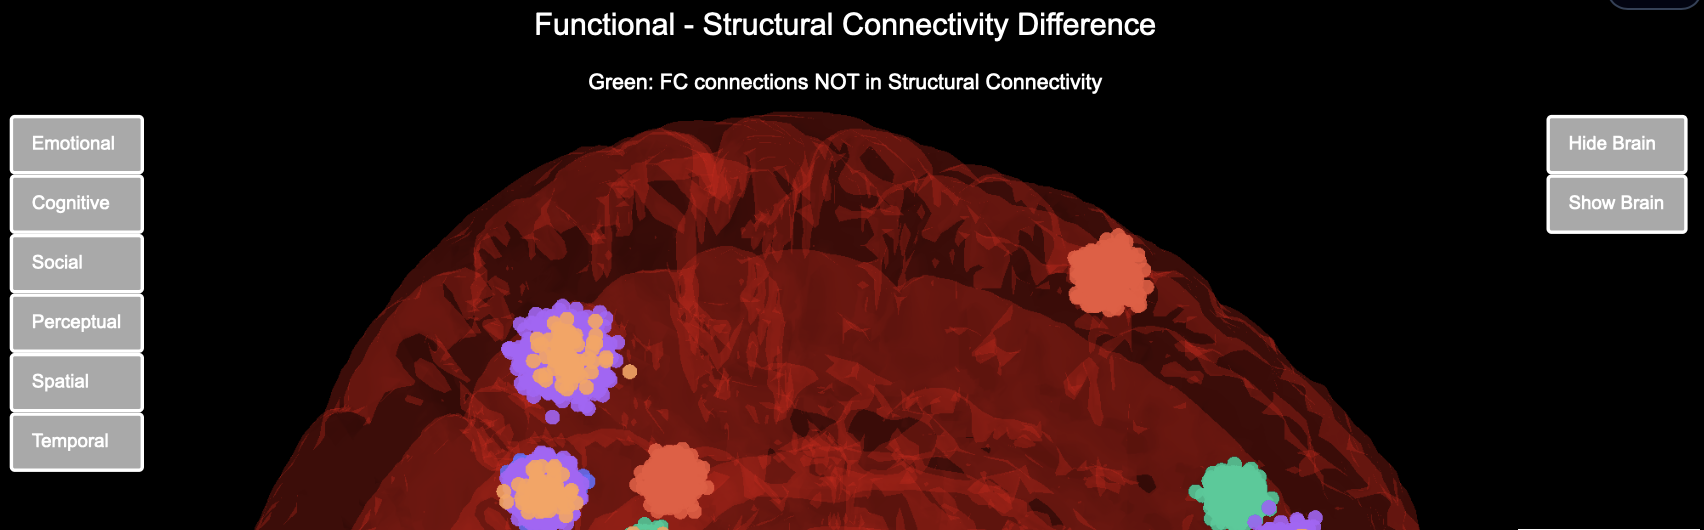
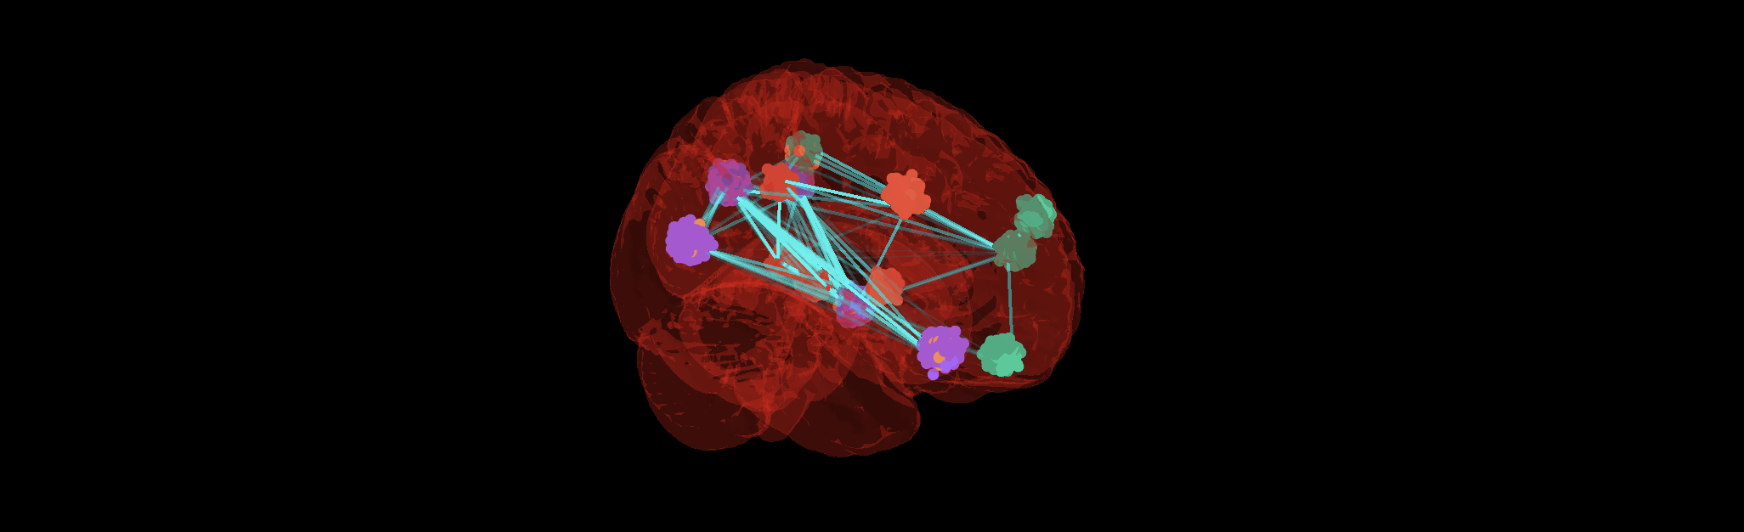
deploy

diff --git a/index.html b/index.html
@@ -23,7 +23,7 @@
   </div>
 
     <div class="header-photo">
-      <img src="photo_cv.png" alt="Valentina Pucci">
+      <img src="img/photo_cv.png" alt="Valentina Pucci">
     </div>
   </header>
 
@@ -55,15 +55,15 @@
 
     <div class="project-card" onclick="openModal('p5')">
       <img src="img/ada.png" class="card-img">
-      <h3>MERLOT: Online Content & Network Analysis</h3>
-      <p class="meta">Data Science · Network Analysis · NLP</p>
-      <p>Large-scale analysis of online content and relationships using real-world datasets.</p>
+      <h3>Mapping the Collective Reddit Brain - Data Story about the Reddit Network dataset</h3>
+      <p class="meta">Data Science · Network Analysis · Data Analysis</p>
+      <p>Treating Reddit as a nervous system to uncover brain-like structure in millions of online interactions.</p>
     </div>
 
     <div class="project-card" onclick="openModal('p3')">
-      <img src="img/lsbi.png" class="card-img">
+      <img src="img/lsbi2.png" class="card-img">
       <h3>Soft Implantable Electrodes</h3>
-      <p class="meta">Bioelectronics · Electrochemistry</p>
+      <p class="meta">Bioelectronics · Electrochemistry · Data Analysis</p>
       <p>Characterization of kirigami-based electrodes for long-term neural interfaces.</p>
     </div>
 
@@ -72,13 +72,6 @@
       <h3>fMRI Task Prediction</h3>
       <p class="meta">Deep Learning · RNN · Neuroimaging</p>
       <p>Predicting task timecourses from brain activity using recurrent neural networks.</p>
-    </div>
-
-    <div class="project-card" onclick="openModal('p4')">
-      <img src="img/chd.jpg" class="card-img">
-      <h3>CHD Risk Prediction</h3>
-      <p class="meta">Machine Learning · Healthcare</p>
-      <p>Logistic regression model for early prediction of coronary heart disease risk.</p>
     </div>
 
   </section>
@@ -91,6 +84,8 @@
       <span class="close" onclick="closeModal('p1')">&times;</span>
   
       <h2>Hybrid Computational Models of Spinal Cord Stimulation</h2>
+
+      <img src="img/TNE.png" class="modal-img">
   
       <p><strong>Technologies:</strong> MATLAB, Python, COMSOL Multiphysics, NEURON</p>
   
@@ -112,7 +107,7 @@
       </ul>
   
       <p>
-        <a href="#">Code</a> · <a href="#">Report</a>
+        Code (Confidential) · <a href="docs/report_TNE.pdf" target="_blank">Report</a>
       </p>
     </div>
   </div>
@@ -122,6 +117,8 @@
       <span class="close" onclick="closeModal('p2')">&times;</span>
   
       <h2>Task Prediction Using fMRI Data</h2>
+
+      <img src="img/ML.png" class="modal-img">
   
       <p><strong>Technologies:</strong> Python, PyTorch, RNNs, CNNs</p>
   
@@ -137,7 +134,7 @@
       </ul>
   
       <p>
-        <a href="#">Code</a> · <a href="#">Report</a>
+        <a href="https://github.com/fedemengo/CS-433-ML4S" target="_blank">Code</a> · <a href="docs/ML2_report.pdf" target="_blank">Report</a>
       </p>
     </div>
   </div>
@@ -147,8 +144,10 @@
       <span class="close" onclick="closeModal('p3')">&times;</span>
   
       <h2>Kirigami-Based Soft Implantable Electrodes</h2>
+
+      <img src="img/lsbi.png" class="modal-img">
   
-      <p><strong>Technologies:</strong> Electrochemistry, Material Testing</p>
+      <p><strong>Technologies:</strong> Electrochemistry, Material Testing, Data Analysis</p>
   
       <p>
         Investigated the long-term stability of kirigami-inspired soft electrodes
@@ -162,7 +161,7 @@
       </ul>
   
       <p>
-        <a href="#">Details</a>
+        Report & Code (confidential)
       </p>
     </div>
   </div>
@@ -171,9 +170,9 @@
     <div class="modal-content">
       <span class="close" onclick="closeModal('p4')">&times;</span>
   
-      <h2>Coronary Heart Disease Risk Prediction</h2>
+      <h2>Machine Learning for Early Detection of Coronary Heart Disease Risk</h2>
   
-      <p><strong>Technologies:</strong> Python, Scikit-learn</p>
+      <p><strong>Technologies:</strong> Python </p>
   
       <p>
         Built and optimized a logistic regression model to predict coronary heart
@@ -187,7 +186,7 @@
       </ul>
   
       <p>
-        <a href="#">Code</a>
+        Code (confidential)
       </p>
     </div>
   </div>
@@ -195,32 +194,23 @@
   <div id="p5" class="modal">
     <div class="modal-content">
       <span class="close" onclick="closeModal('p5')">&times;</span>
+      <h2>Mapping the Collective Reddit Brain</h2>
+      <img src="img/ada_exp.png" class="modal-img">
   
-      <h2>MERLOT — Data Story on Online Content & Network Structure</h2>
-  
-      <p><strong>Technologies:</strong> Python, Network Analysis, NLP, Data Visualization</p>
-  
-      <p>
-        This project explores a large-scale dataset of online content and interactions,
-        focusing on how information spreads and how relationships form in digital ecosystems.
-      </p>
+      <p><strong>Technologies:</strong> Python, Network Analysis, Data Visualization</p>
   
       <p>
-        The goal was to extract meaningful structure from complex, noisy data and turn it
-        into an interpretable data story.
+        We treated Reddit as a nervous system — subreddits as neurons, hyperlinks as action potentials,
+        and linguistic co-activation as functional connectivity — asking whether a platform of millions
+        behaves like a brain.
       </p>
   
       <ul>
-        <li>Built and analyzed large-scale interaction networks</li>
-        <li>Applied text processing and feature extraction techniques</li>
-        <li>Studied community structure and connectivity patterns</li>
-        <li>Designed visualizations to communicate insights clearly</li>
+        <li><strong>Interaction networks</strong> — Built a structural connectome from hundreds of thousands of hyperlinks, classifying communities into sensory, interneuron, and motor archetypes by in/out-degree, with 300-dimensional embeddings as "axon length" proxies.</li>
+        <li><strong>NLP & feature extraction</strong> — Compressed LIWC psychological signals into six coherent neural signals per subreddit (affect, cognition, social orientation, etc.) to capture meaningful dynamics across time.</li>
+        <li><strong>Functional vs. structural connectivity</strong> — Isolated subreddits that co-evolve without ever directly linking, analogous to fMRI connectivity beyond anatomical wiring.</li>
+        <li><strong>Visualizations</strong> — Interactive dashboards for sentiment flow, hub resilience, and a 3D brain projection mapping subreddit categories onto MNI brain regions.</li>
       </ul>
-  
-      <p>
-        The project emphasizes the link between **structure (networks)** and
-        **content (textual signals)** in real-world datasets.
-      </p>
   
       <p>
         <a href="https://epfl-ada.github.io/ada-2025-project-merlot/" target="_blank">Project Website</a>
@@ -228,7 +218,7 @@
     </div>
   </div>
   
-  <script src="script.js"></script>
+  <script src="scripts.js"></script>
 
   <!-- FOOTER -->
   <footer>

diff --git a/style.css b/style.css
@@ -23,7 +23,7 @@ body {
     width: 200px;
     height: 200px;
     object-fit: cover;
-    border-radius: 50%;
+    border-radius: 20%;
   }
   
   .header-text {
@@ -81,22 +81,35 @@ body {
   /* MODAL */
   
   .modal {
-    display: none; /* important */
+    display: none;
     position: fixed;
-    z-index: 1000; /* 👈 add this if missing */
+    z-index: 1000;
     left: 0;
     top: 0;
     width: 100%;
     height: 100%;
     background-color: rgba(0,0,0,0.6);
+  
+    overflow-y: auto; /* optional: scroll whole modal if needed */
   }
   
   .modal-content {
-    background-color: white;
-    margin: 10% auto;
+    background: white;
+    margin: 5% auto;
     padding: 20px;
-    max-width: 600px;
+    max-width: 700px;
     border-radius: 10px;
+  
+    max-height: 80vh;   /* 🔑 limit height */
+    overflow-y: auto;   /* 🔑 enable scrolling */
+  }
+
+  .modal-img {
+    width: 100%;
+    max-height: 250px;
+    object-fit: cover;
+    border-radius: 10px;
+    margin: 15px 0;
   }
   
   .close {